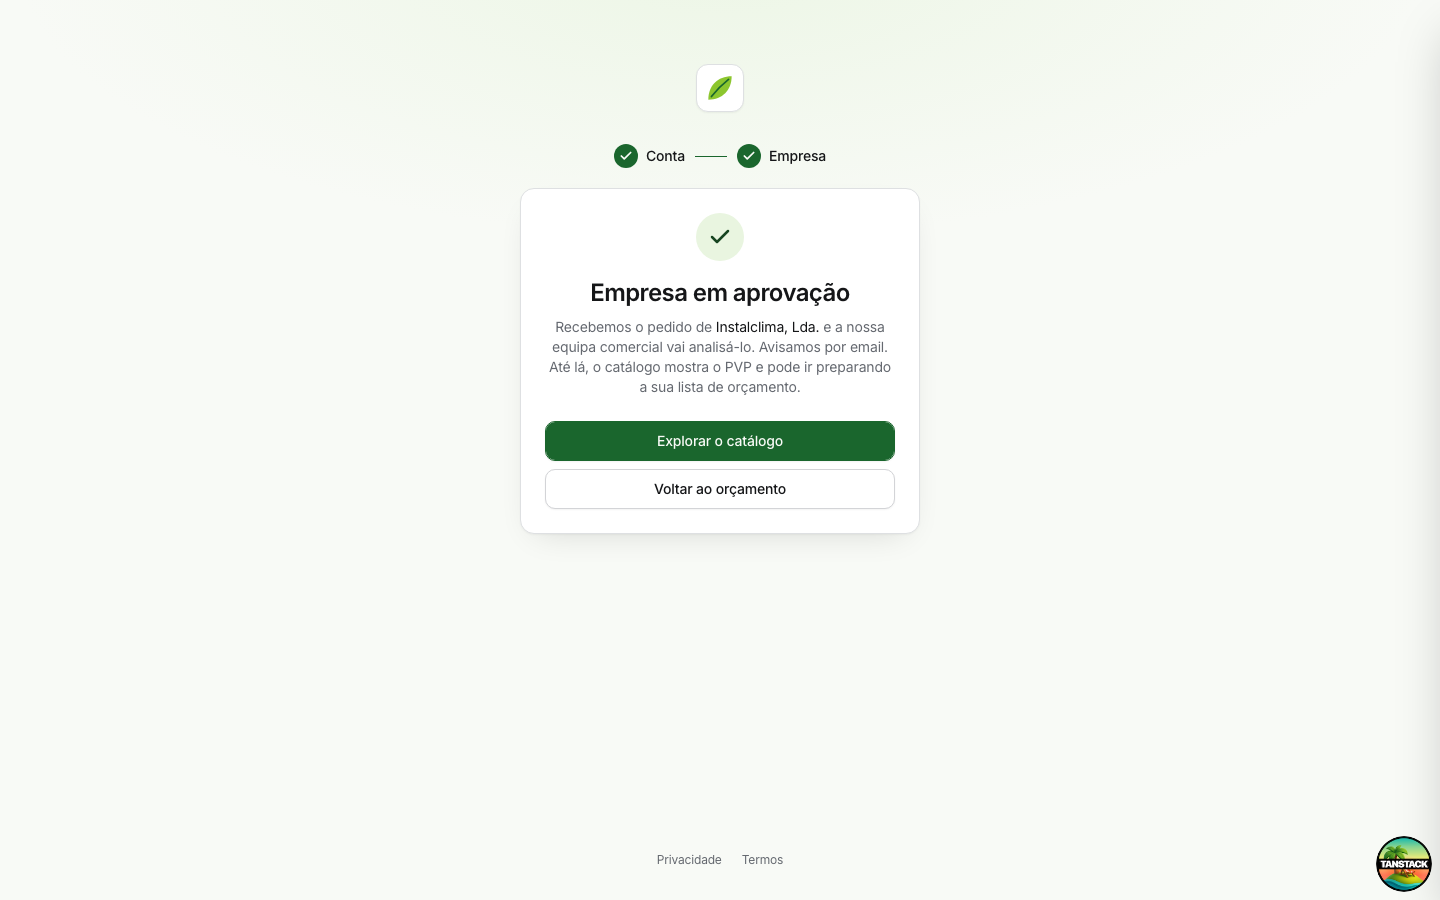
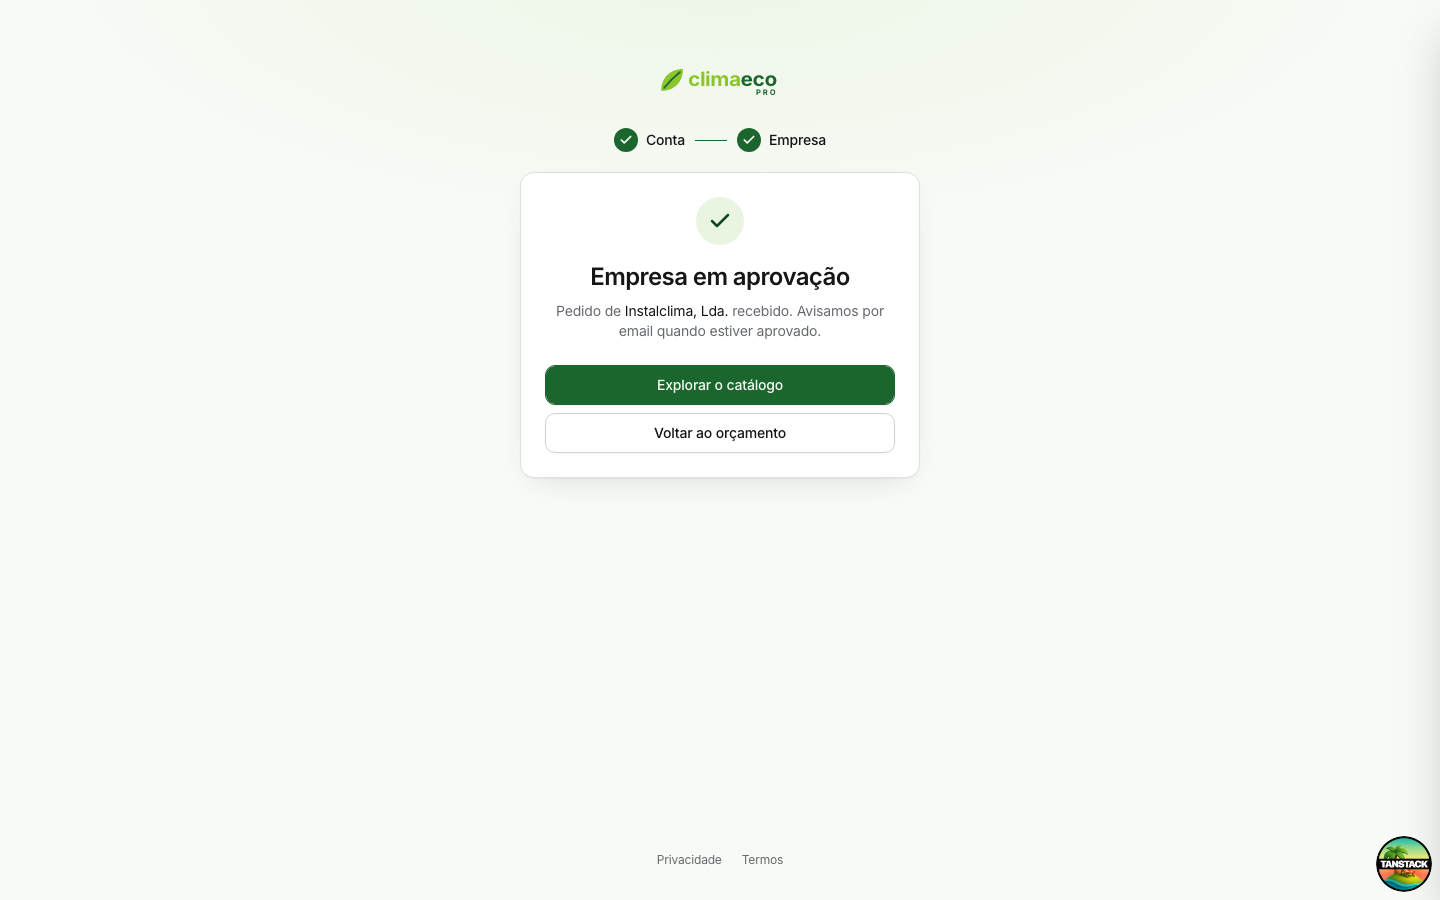
Entrar and Registo: less text, Attio-style
Wordmark instead of the mark tile; titles cut to "Entrar" and "Criar conta"
with no subtitle; Clerk fields are placeholder-only (labels kept for screen
readers), with pt-PT placeholders including the sign-up password one; company
form title without a subtitle; confirmation down to one sentence.

Changed region(s): [[0.375, 0.2178, 0.625, 0.56], [0.4062, 0.0622, 0.5938, 0.1867]]

diff --git a/client-frontend/src/lib/clerk-ui.ts b/client-frontend/src/lib/clerk-ui.ts
@@ -88,7 +88,19 @@ const EMBUTIDO: NonNullable<Appearance["elements"]> = {
     letterSpacing: "-0.025em",
   },
   headerSubtitle: { color: "var(--muted-foreground)", fontSize: "0.875rem" },
-  formFieldLabel: { fontWeight: 500, fontSize: "0.875rem" },
+  // Placeholder-only fields, Attio-style: the label stays for screen readers.
+  formFieldLabel: {
+    position: "absolute",
+    width: 1,
+    height: 1,
+    padding: 0,
+    margin: -1,
+    overflow: "hidden",
+    clip: "rect(0, 0, 0, 0)",
+    whiteSpace: "nowrap",
+    border: 0,
+  },
+  formFieldLabelRow: { "&&": { marginBottom: 0 } },
   formFieldInput: CAMPO,
   otpCodeFieldInput: { boxShadow: "none", borderColor: "var(--input)" },
   formButtonPrimary: BOTAO_PRIMARIO,
@@ -154,9 +166,10 @@ export const clerkAppearance: Appearance = {
 }
 
 /**
- * pt-PT strings with the sign-in and sign-up openers reworded for Climaeco
- * Pro: Clerk's defaults name the Clerk application, which is not a customer-
- * facing name. Every other step keeps Clerk's translation.
+ * pt-PT strings with the openers cut to the bone (Attio-style: a title, a
+ * field, a button): Clerk's defaults name the Clerk application and add a
+ * welcome line. Placeholders double as labels. Every other step keeps
+ * Clerk's translation.
  */
 export const clerkLocalization: Localization = {
   ...ptPT,
@@ -164,8 +177,8 @@ export const clerkLocalization: Localization = {
     ...ptPT.signIn,
     start: {
       ...ptPT.signIn?.start,
-      title: "Entrar no Climaeco Pro",
-      subtitle: "Bem-vindo de volta. Inicie sessão para continuar.",
+      title: "Entrar",
+      subtitle: "",
       actionText: "Ainda não tem conta?",
       actionLink: "Registar empresa",
     },
@@ -175,9 +188,15 @@ export const clerkLocalization: Localization = {
     start: {
       ...ptPT.signUp?.start,
       title: "Criar conta",
-      subtitle: "Passo 1 de 2: a conta da pessoa de contacto.",
+      subtitle: "",
       actionText: "Já tem conta?",
       actionLink: "Entrar",
     },
   },
+  formFieldInputPlaceholder__emailAddress: "Email",
+  formFieldInputPlaceholder__emailAddress_username:
+    "Email ou nome de utilizador",
+  formFieldInputPlaceholder__username: "Nome de utilizador",
+  formFieldInputPlaceholder__password: "Palavra-passe",
+  formFieldInputPlaceholder__signUpPassword: "Palavra-passe",
 }

diff --git a/client-frontend/src/components/shell/minimal-shell.tsx b/client-frontend/src/components/shell/minimal-shell.tsx
@@ -11,18 +11,14 @@ const LINKS_RODAPE = LINKS_LEGAIS.filter(
  * Chrome for the focused pages (Entrar, Registo, payment link), in the shape
  * modern sign-in pages share (T3 Chat, Linear, Resend, Cal.com; see
  * `docs/research/login-page-patterns.md`): no top bar, a tinted page, the
- * mark in a small tile above the content, and only the legal links below.
+ * wordmark above the content, and only the legal links below.
  */
 export function MinimalShell({ children }: { children: React.ReactNode }) {
   return (
     <div className="fundo-auth flex min-h-svh flex-col">
       <div className="flex justify-center pt-10 sm:pt-16">
-        <Link
-          to="/"
-          aria-label="Início"
-          className="flex size-12 items-center justify-center rounded-xl border bg-card shadow-xs transition-colors hover:border-[color-mix(in_oklch,var(--border),var(--foreground)_15%)]"
-        >
-          <Wordmark variant="mark" className="h-7" />
+        <Link to="/" aria-label="Início">
+          <Wordmark className="h-8" />
         </Link>
       </div>
       <main className="flex flex-1 flex-col">{children}</main>

diff --git a/client-frontend/src/routes/_minimal/registo.tsx b/client-frontend/src/routes/_minimal/registo.tsx
@@ -221,9 +221,7 @@ function FormularioEmpresa({
 
   return (
     <form onSubmit={(e) => void onSubmit(e)} className="flex flex-col gap-4">
-      <TituloAuth titulo="Dados da empresa">
-        Passo 2 de 2: a equipa comercial analisa o pedido e avisa por email.
-      </TituloAuth>
+      <TituloAuth titulo="Dados da empresa" />
       {erro && (
         <p
           role="alert"
@@ -351,10 +349,8 @@ function Concluido({
         Empresa em aprovação
       </h1>
       <p className="mt-2 text-sm text-muted-foreground">
-        Recebemos o pedido de{" "}
-        <span className="text-foreground">{nomeLegal}</span> e a nossa equipa
-        comercial vai analisá-lo. Avisamos por email. Até lá, o catálogo mostra
-        o PVP e pode ir preparando a sua lista de orçamento.
+        Pedido de <span className="text-foreground">{nomeLegal}</span> recebido.
+        Avisamos por email quando estiver aprovado.
       </p>
       <div className="mt-6 flex w-full flex-col gap-2">
         <Button size="lg" render={<a href="/produtos" />} nativeButton={false}>
